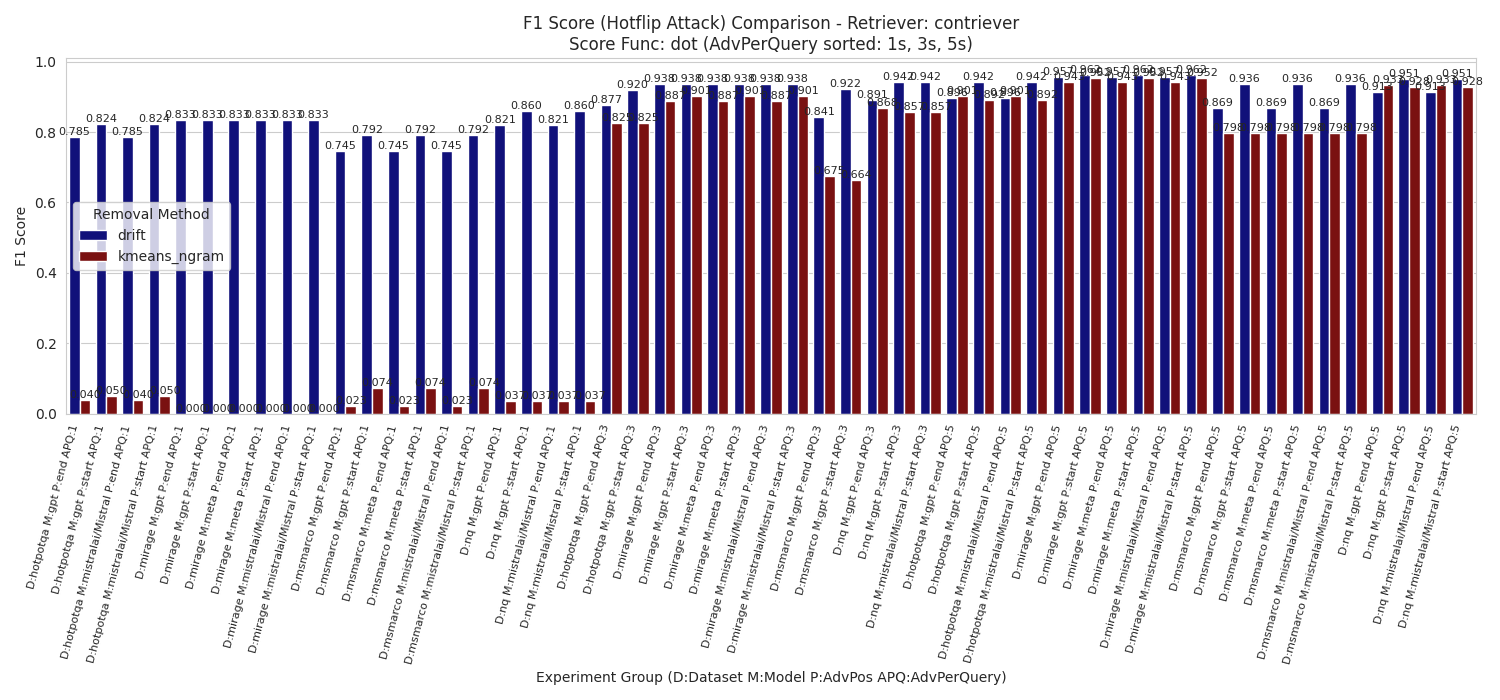
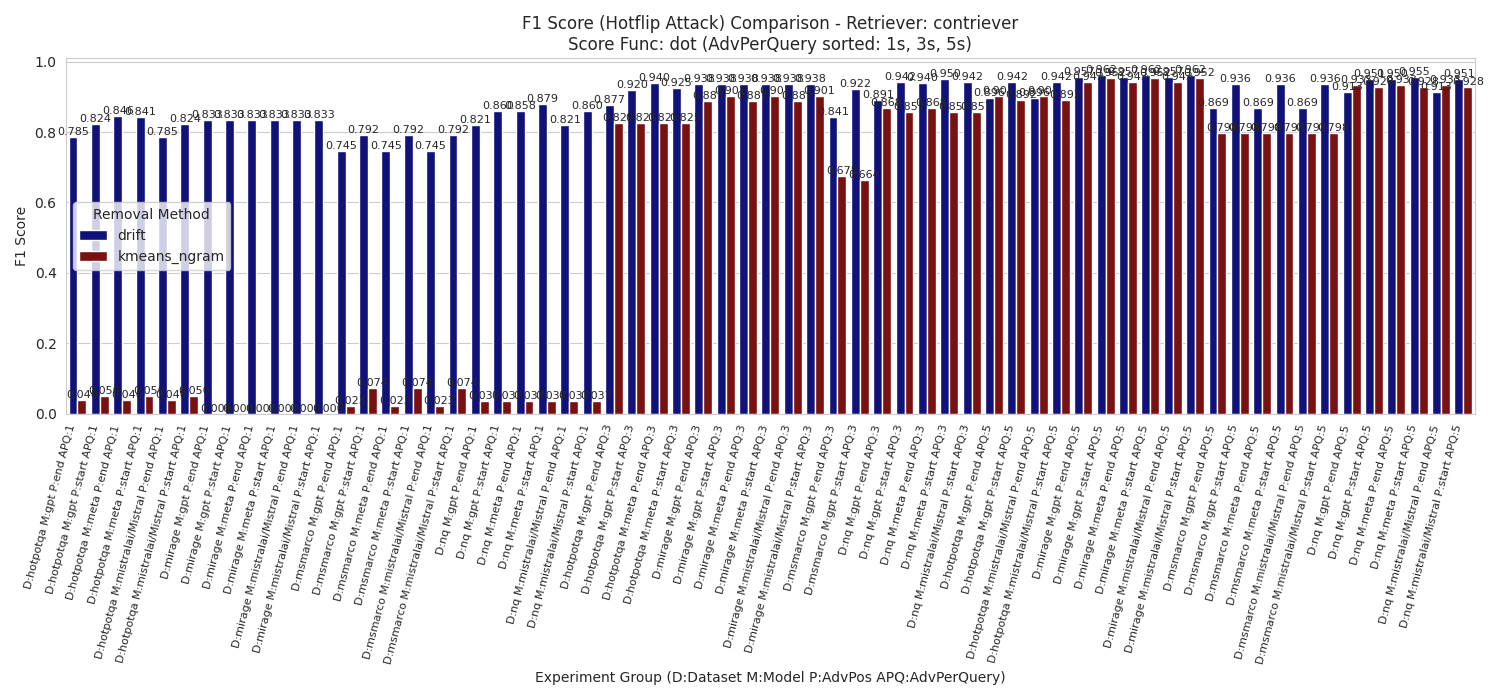
yes

diff --git a/src/defend_module.py b/src/defend_module.py
@@ -306,7 +306,7 @@ def similarity_filtering(topk_embeddings, topk_contents):
 
 # Thresholds based on 5th highest quantile (95th percentile)
 THRESHOLDS = {
-    "95TH": {
+    95: {
         "ance": {
             "hotpotqa": {
                 "cos_sim": {"start": 0.013599991798400879, "end": 0.004800021648406982},
@@ -375,7 +375,7 @@ THRESHOLDS = {
         },
     },
     # Thresholds based on 10th highest quantile (90th percentile)
-    "90th": {
+    90: {
         "ance": {
             "hotpotqa": {
                 "cos_sim": {
@@ -457,7 +457,7 @@ THRESHOLDS = {
 }
 
 
-def get_thresholds(model_code, dataset, score_function, percentile="95th"):
+def get_thresholds(model_code, dataset, score_function, percentile=95):
     """
     Get thresholds for given model, dataset, score function, and percentile.
 
@@ -465,7 +465,7 @@ def get_thresholds(model_code, dataset, score_function, percentile="95th"):
         model_code: Model identifier (e.g., "ance", "contriever")
         dataset: Dataset name (e.g., "hotpotqa", "mirage")
         score_function: Scoring function ("cos_sim" or "dot")
-        percentile: Which percentile to use ("90th" or "95th")
+        percentile: Which percentile to use (90 or 95)
 
     Returns:
         tuple: (start_threshold, end_threshold)
@@ -473,6 +473,8 @@ def get_thresholds(model_code, dataset, score_function, percentile="95th"):
     Raises:
         ValueError: If configuration not found
     """
+    if model_code in ["ance", "minilm", "mpnet", "roberta"]:
+        percentile = 90
     try:
         threshold_dict = THRESHOLDS[percentile]
         model_config = threshold_dict[model_code]
@@ -593,7 +595,7 @@ def drift_filtering(args, tokenizer, model, get_emb, question, contents, score):
     self_truncated_end_scores = self_scores[:, 1::2]
 
     start_thresh, end_thresh = get_thresholds(
-        args.eval_model_code, args.dataset, args.score_function
+        args.eval_model_code, args.eval_dataset, args.score_function
     )
     self_truncated_start_mask = diff_scores_mask(
         self_truncated_start_scores,
